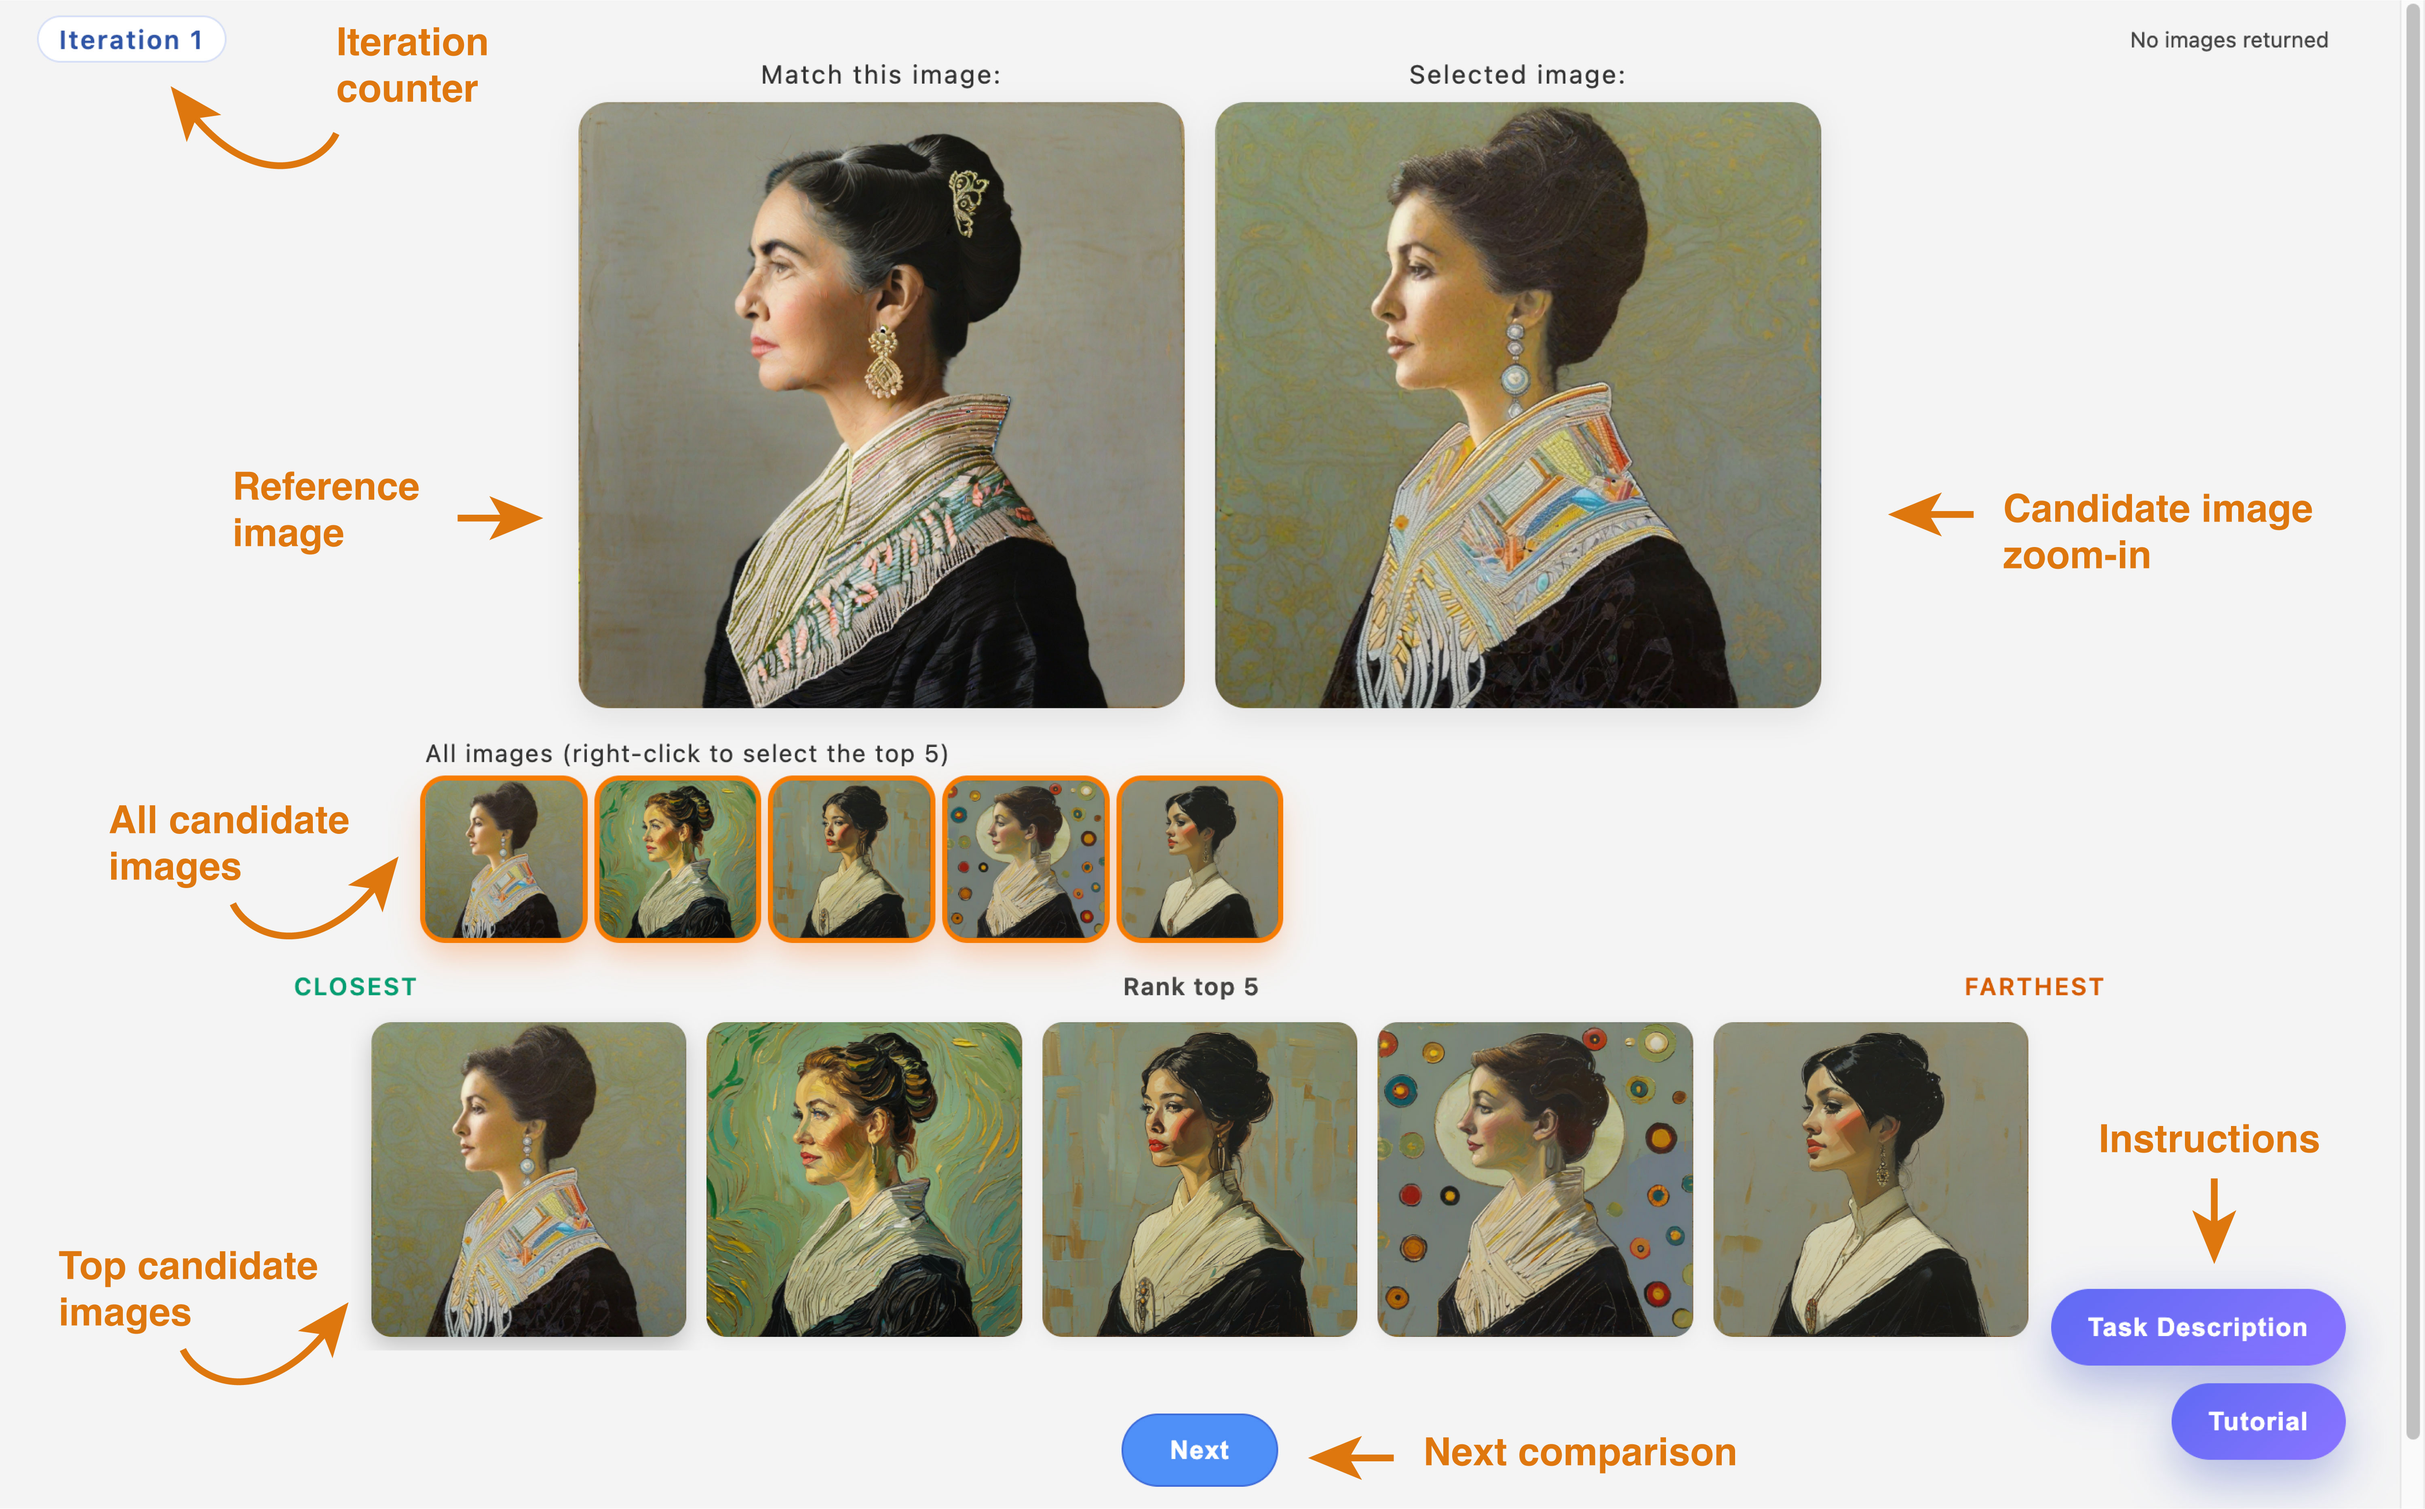
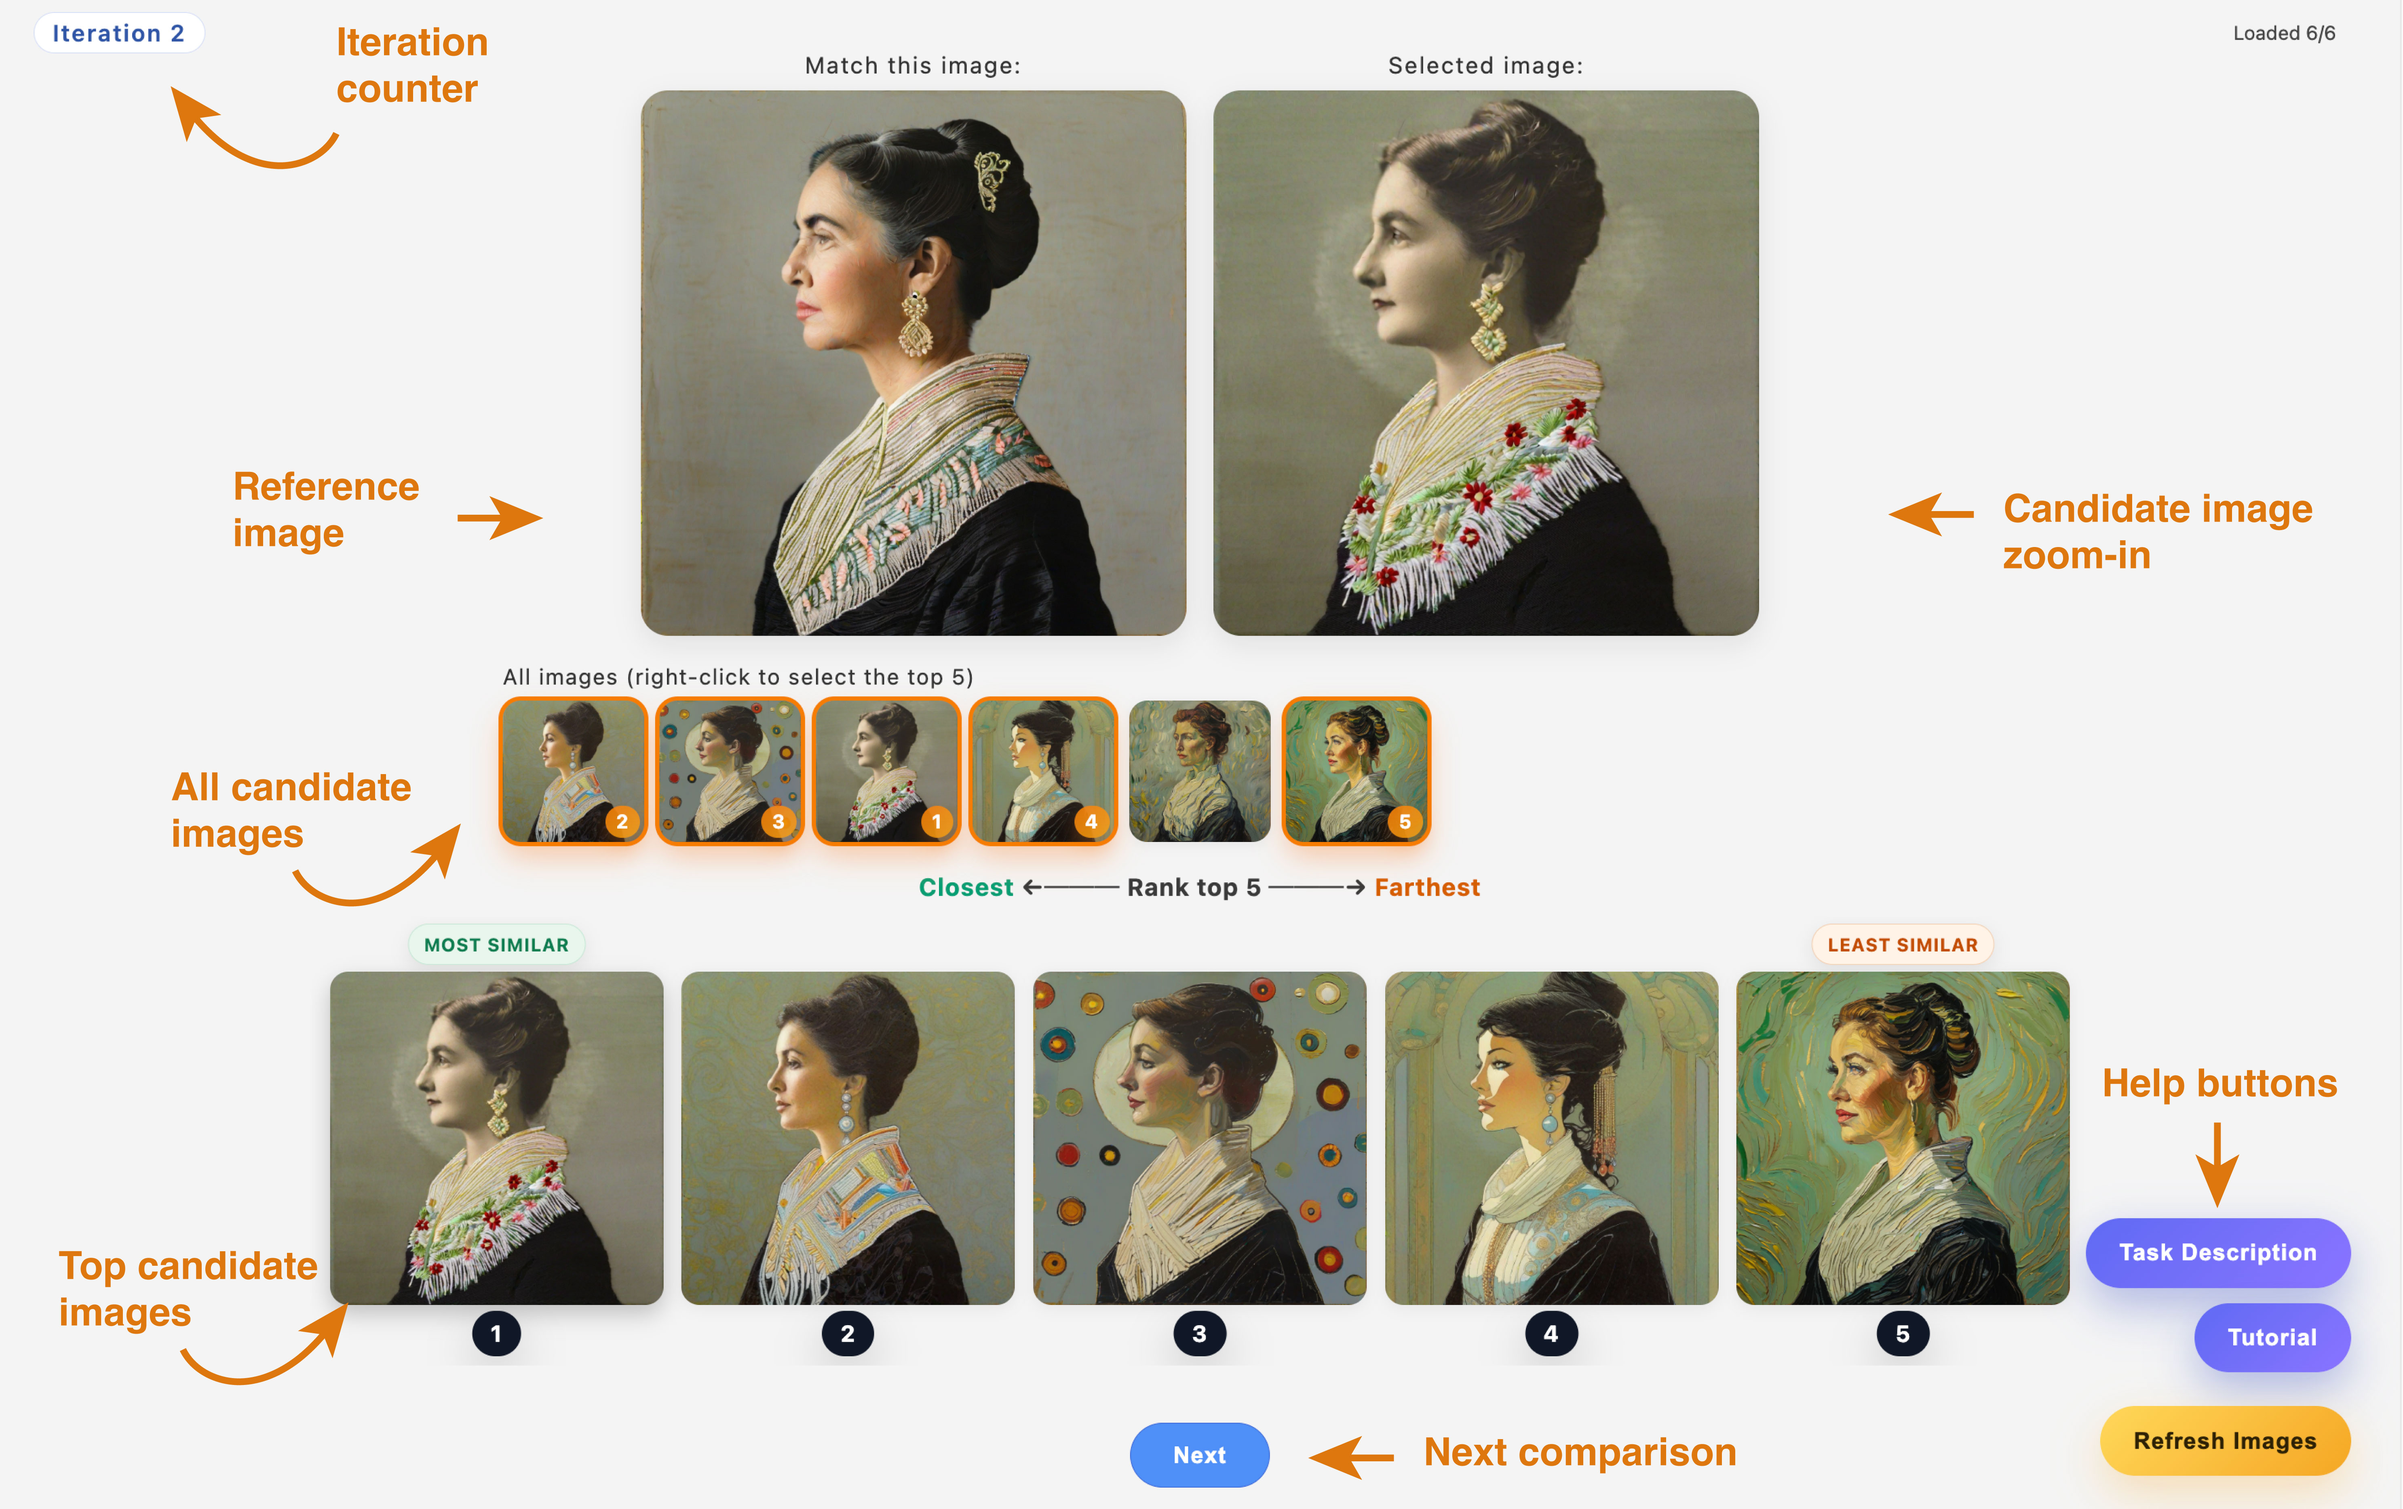
Updated the tutorials for the final version.

diff --git a/tutorial/tutorial_bo_top.html b/tutorial/tutorial_bo_top.html
@@ -86,10 +86,11 @@
 				<li>An <strong>iteration counter</strong> in the top-left shows your current progress.</li>
 				<li>The <strong>reference image</strong> at the top is labeled <em>“Match this image”</em>.</li>
 				<li>The <strong>Selected image</strong> panel shows the candidate you are currently inspecting.</li>
-				<li>The <strong>All images</strong> row lists every candidate available this iteration.</li>
-				<li>The <strong>Rank top 5</strong> area displays the images you have chosen to rank, ordered from <strong>Closest</strong> (left) to <strong>Farthest</strong> (right).</li>
+				<li>The <strong>All images</strong> row lists all candidate images available in this iteration. The numbered badges indicate their position when selected for ranking.</li>
+				<li>The <strong>Rank top 5</strong> area shows the images you have selected for ranking, ordered from <strong>Closest</strong> (left) to <strong>Farthest</strong> (right). The numbers correspond to the same images in the <strong>All images</strong> row above.</li>
 				<li>The <strong>Next</strong> button at the bottom moves you forward after you complete your ranking.</li>
-				<li>The <strong>Task Description</strong> and <strong>Tutorial</strong> buttons in the bottom-right let you revisit instructions at any time.</li>
+				<li>In the <strong>bottom-right corner</strong>, the task description, this interface tutorial and an image refresh button are available at any time.</li>
+				<li>Please <strong>do not use the browser refresh</strong>. If any images fail to load, use the image refresh button instead.</li>
 			</ul>
 		</section>
 
@@ -101,7 +102,7 @@
 				<li>The zoomed view updates automatically whenever you click a different candidate.</li>
 			</ul>
 			<div class="demo-figure is-zoom">
-				<img src="zoomin_top.gif" alt="Animation demonstrating zooming a candidate image" loading="lazy" />
+				<img src="zoomin2.gif" alt="Animation demonstrating zooming a candidate image" loading="lazy" />
 			</div>
 		</section>
 
@@ -110,12 +111,13 @@
 			<p>Your first step is to choose up to <strong>five</strong> images for ranking.</p>
 			<ul>
 				<li>In the <em>All images</em> row, <strong>right-click</strong> an image to add it to the <em>Rank top 5</em> selection.</li>
+				<li>The individual numbers correspond to the same images in the <strong>All images</strong> and <strong>Rank</strong> row.</li>
 				<li>Selected images appear in the ranking row. Right-click again to remove one.</li>
 				<li>You can adjust your selection at any time before proceeding.</li>
 				<li>Only images in the <em>Rank top 5</em> row will be ranked.</li>
 			</ul>
 			<div class="demo-figure">
-				<img src="select.gif" alt="Animation showing selecting and deselecting images" loading="lazy" />
+				<img src="select2.gif" alt="Animation showing selecting and deselecting images" loading="lazy" />
 			</div>
 		</section>
 
@@ -129,7 +131,7 @@
 				<li>When satisfied with the order, click <strong>Next</strong> to proceed to the next iteration.</li>
 			</ul>
 			<div class="demo-figure">
-				<img src="rank.gif" alt="Animation showing ranking interactions" loading="lazy" />
+				<img src="rank2.gif" alt="Animation showing ranking interactions" loading="lazy" />
 			</div>
 		</section>
 

diff --git a/tutorial/tutorial_slider.html b/tutorial/tutorial_slider.html
@@ -93,7 +93,8 @@
 				<li>In the <strong>center</strong>, you will find a set of <strong>sliders</strong>, each corresponding to a different visual component. The thumbnail for each slider previews that component in isolation (<strong>hover to zoom in</strong>).</li>
 				<li>Below the sliders, the <strong>Render Image</strong> button generates a new image based on the current slider settings.</li>
 				<li>On the <strong>right</strong>, the <strong>Recent Renders</strong> panel displays your previous renders and allows you to revisit earlier slider configurations.</li>
-				<li>In the <strong>bottom-right</strong> corner, the task description and this interface tutorial are available at any time.</li>
+				<li>In the <strong>bottom-right corner</strong>, the task description, this interface tutorial and an image refresh button are available at any time.</li>
+				<li>Please <strong>do not use the browser refresh</strong>. If any images fail to load, use the image refresh button instead.</li>
 			</ul>
 		</section>
 

diff --git a/tutorial/tutorial_gallery.html b/tutorial/tutorial_gallery.html
@@ -85,7 +85,8 @@
 				<li>On the <strong>left</strong>, you will see the <strong>reference image</strong>, labeled <em>“Match this image”</em>.</li>
 				<li>On the <strong>right</strong>, you will see a grid of <strong>candidate images</strong>.</li>
 				<li>A <strong>Next</strong> button at the bottom allows you to advance after making your selection.</li>
-				<li>In the <strong>bottom-right corner</strong>, the task description and this interface tutorial are available at any time.</li>
+				<li>In the <strong>bottom-right corner</strong>, the task description, this interface tutorial and an image refresh button are available at any time.</li>
+				<li>Please <strong>do not use the browser refresh</strong>. If any images fail to load, use the image refresh button instead.</li>
 			</ul>
 			<div class="demo-figure is-overview">
 				<img src="overview_gallery.jpg" alt="Annotated overview of the gallery interface" loading="lazy" />

diff --git a/sliders/index.html b/sliders/index.html
@@ -145,7 +145,7 @@
 
   <button id="descriptionToggle" class="description-button" type="button">Task Description</button>
     <button id="tutorialToggle" class="tutorial-button" type="button">Tutorial</button>
-    <button id="refreshUiBtn" class="refresh-button" type="button" aria-label="Refresh preview">Refresh UI</button>
+    <button id="refreshUiBtn" class="refresh-button" type="button" aria-label="Refresh preview">Refresh Images</button>
   <div id="descriptionOverlay" class="description-overlay hidden" role="dialog" aria-modal="true" aria-labelledby="descriptionTitle">
     <div class="description-content">
       <div class="description-header">
